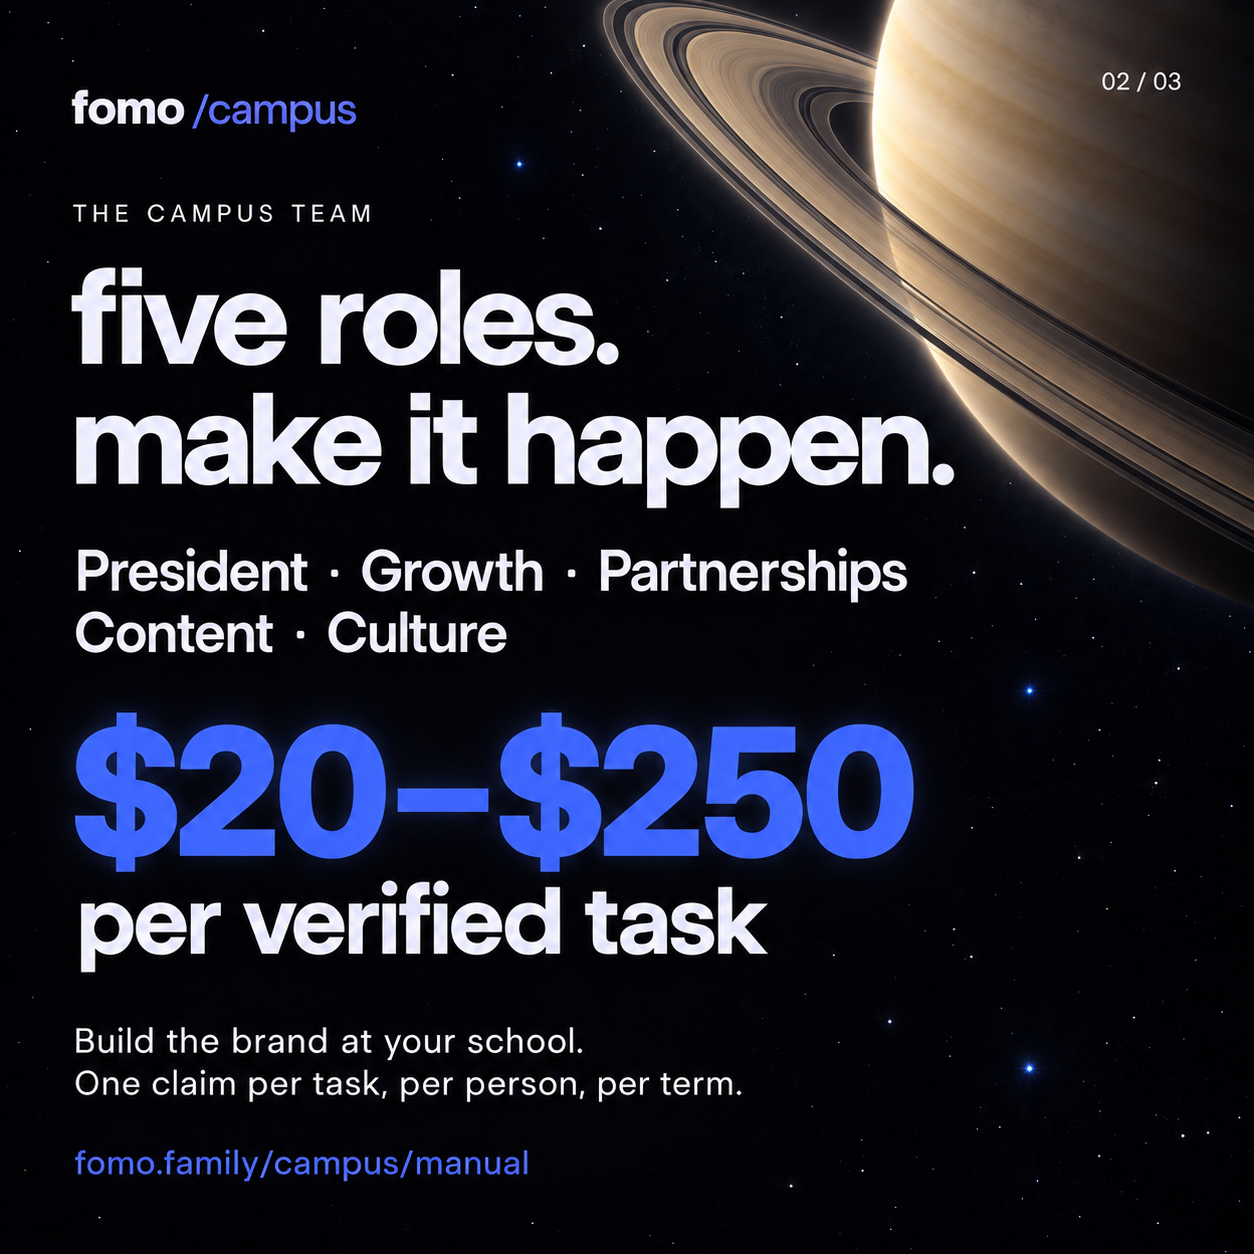
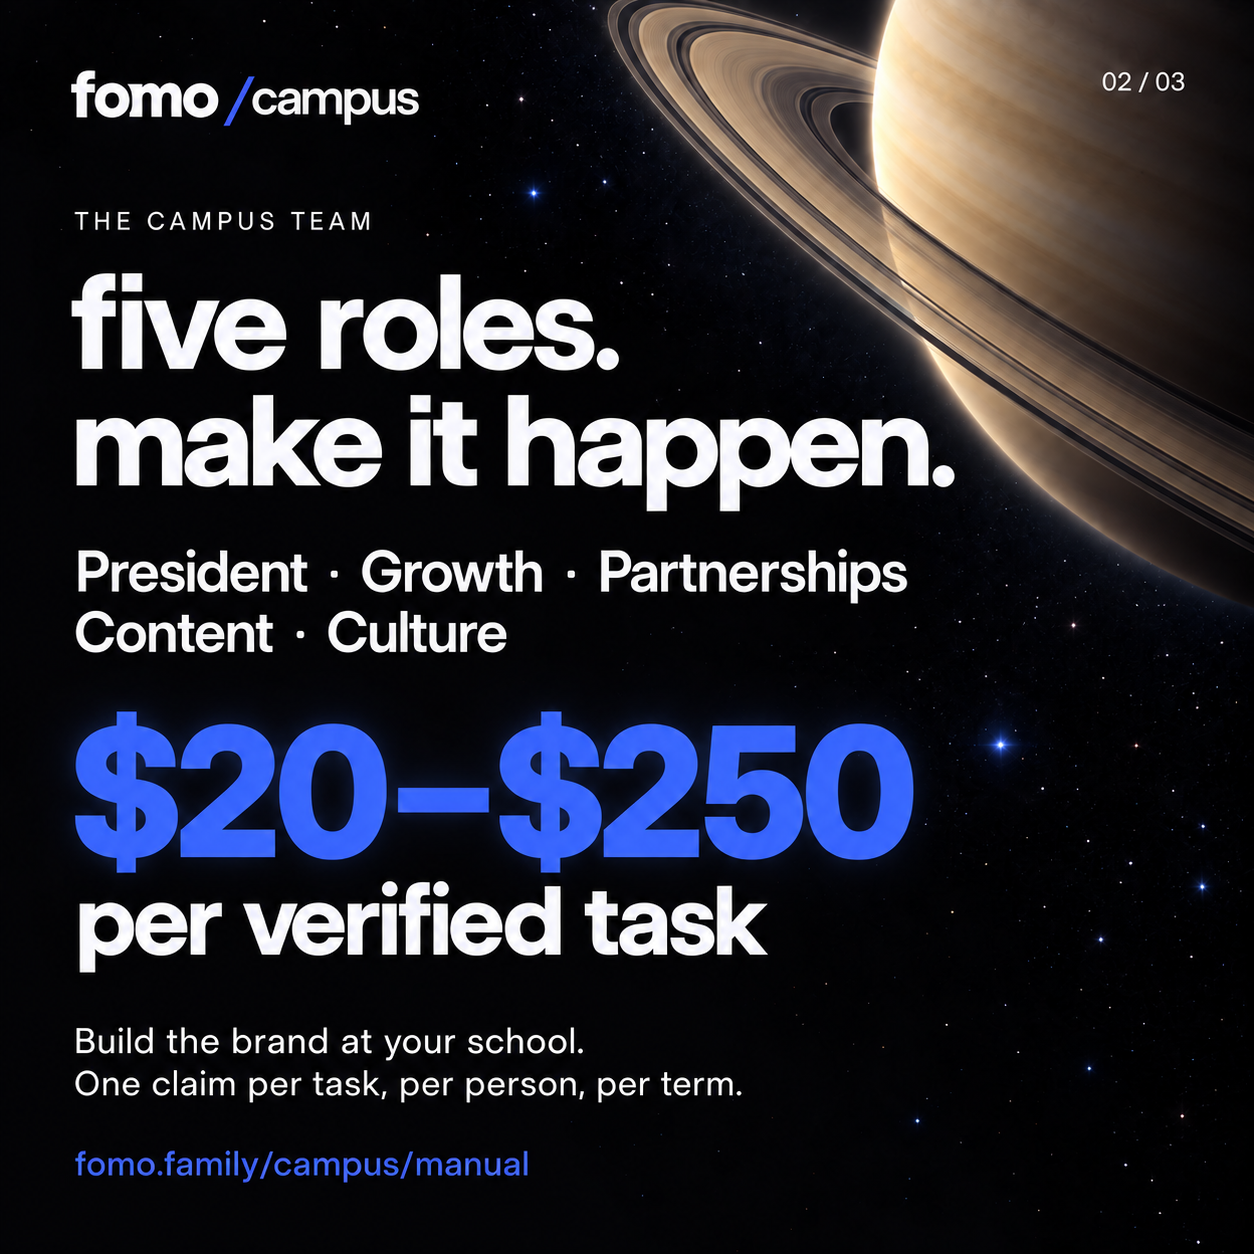
Match fomo campus lockup across social graphics

diff --git a/greekwars/invite.html b/greekwars/invite.html
@@ -11,18 +11,18 @@
   <meta property="og:title" content="Greek Wars · $500 for your chapter">
   <meta property="og:description" content="$500 for any chapter with 80% onboarded. Plus campus roles and funded dinners. Find your way in.">
   <meta property="og:url" content="https://bijanizadian.com/greekwars/invite">
-  <meta property="og:image" content="https://bijanizadian.com/assets/campus-social/01-greek-wars.png?v=bf3a9b2">
+  <meta property="og:image" content="https://bijanizadian.com/assets/campus-social/01-greek-wars.png?v=lockup-1">
   <meta property="og:image:width" content="1254">
   <meta property="og:image:height" content="1254">
   <meta property="og:image:alt" content="Greek Wars: $500 for any chapter with 80% onboarded. Jupiter above a field of stars.">
   <meta name="twitter:card" content="summary_large_image">
   <meta name="twitter:title" content="You're invited to Greek Wars · fomo">
   <meta name="twitter:description" content="$500 for any chapter with 80% onboarded. Explore Greek Wars, campus roles and funded dinners.">
-  <meta name="twitter:image" content="https://bijanizadian.com/assets/campus-social/01-greek-wars.png?v=bf3a9b2">
+  <meta name="twitter:image" content="https://bijanizadian.com/assets/campus-social/01-greek-wars.png?v=lockup-1">
   <link rel="canonical" href="https://bijanizadian.com/greekwars/invite">
   <link rel="icon" type="image/svg+xml" href="/fomo-favicon.svg">
   <link rel="preload" as="font" type="font/woff2" href="/campus/fonts/Aeonik-Bold.woff2" crossorigin>
-  <link rel="preload" as="image" href="/assets/campus-social/01-greek-wars.png?v=bf3a9b2" fetchpriority="high">
+  <link rel="preload" as="image" href="/assets/campus-social/01-greek-wars.png?v=lockup-1" fetchpriority="high">
   <link rel="stylesheet" href="/assets/manual-header.css">
   <link rel="stylesheet" href="/assets/greekwars-invite.css?v=cards-1">
   <script src="/assets/manual-header.js" defer></script>
@@ -60,7 +60,7 @@
     </nav>
 
     <section class="invite-panel" id="greekwars" data-invite-panel aria-labelledby="greekwars-title" data-share-title="Greek Wars · fomo">
-      <img class="invite-graphic" src="/assets/campus-social/01-greek-wars.png?v=bf3a9b2" width="1254" height="1254" alt="Greek Wars invitation featuring Jupiter. Your chapter. vs. everyone. $500 for any chapter with 80% onboarded." fetchpriority="high">
+      <img class="invite-graphic" src="/assets/campus-social/01-greek-wars.png?v=lockup-1" width="1254" height="1254" alt="Greek Wars invitation featuring Jupiter. Your chapter. vs. everyone. $500 for any chapter with 80% onboarded." fetchpriority="high">
       <div class="invite-info">
         <div class="invite-description">
           <p class="invite-eyebrow">01 / Compete with your chapter</p>
@@ -71,13 +71,13 @@
           <a class="manual-plan-link" href="https://fomo.family/" data-invite-action>Get fomo <span aria-hidden="true">&rarr;</span></a>
           <button class="invite-share" type="button" hidden>Share invite <span aria-hidden="true">&uarr;</span></button>
         </div>
-        <a class="invite-save" href="/assets/campus-social/01-greek-wars.png?v=bf3a9b2" download="fomo-greek-wars.png">Save graphic <span aria-hidden="true">&darr;</span></a>
+        <a class="invite-save" href="/assets/campus-social/01-greek-wars.png?v=lockup-1" download="fomo-greek-wars.png">Save graphic <span aria-hidden="true">&darr;</span></a>
         <p class="invite-terms">18+ · Eligibility &amp; final rules apply. Trading involves risk.</p>
       </div>
     </section>
 
     <section class="invite-panel" id="campus-team" data-invite-panel aria-labelledby="campus-team-title" data-share-title="Campus roles · fomo">
-      <img class="invite-graphic" src="/assets/campus-social/02-campus-team.png?v=bf3a9b2" width="1254" height="1254" alt="Campus team invitation featuring Saturn. Five roles: President, Growth, Partnerships, Content and Culture. $20–$250 per verified task." loading="lazy" decoding="async">
+      <img class="invite-graphic" src="/assets/campus-social/02-campus-team.png?v=lockup-1" width="1254" height="1254" alt="Campus team invitation featuring Saturn. Five roles: President, Growth, Partnerships, Content and Culture. $20–$250 per verified task." loading="lazy" decoding="async">
       <div class="invite-info">
         <div class="invite-description">
           <p class="invite-eyebrow">02 / Build your campus team</p>
@@ -88,13 +88,13 @@
           <a class="manual-plan-link" href="/campus/manual#seats" data-invite-action>Explore roles <span aria-hidden="true">&rarr;</span></a>
           <button class="invite-share" type="button" hidden>Share invite <span aria-hidden="true">&uarr;</span></button>
         </div>
-        <a class="invite-save" href="/assets/campus-social/02-campus-team.png?v=bf3a9b2" download="fomo-campus-roles.png">Save graphic <span aria-hidden="true">&darr;</span></a>
+        <a class="invite-save" href="/assets/campus-social/02-campus-team.png?v=lockup-1" download="fomo-campus-roles.png">Save graphic <span aria-hidden="true">&darr;</span></a>
         <p class="invite-terms">One claim per task, per person, per term. Claims are verified before payment.</p>
       </div>
     </section>
 
     <section class="invite-panel" id="dinners" data-invite-panel aria-labelledby="dinners-title" data-share-title="Dinner Series · fomo">
-      <img class="invite-graphic" src="/assets/campus-social/03-dinner-series.png?v=bf3a9b2" width="1254" height="1254" alt="Dinner Series invitation featuring Neptune. Host 12 people. Up to $1,200 covered per approved table; the restaurant is paid directly." loading="lazy" decoding="async">
+      <img class="invite-graphic" src="/assets/campus-social/03-dinner-series.png?v=lockup-1" width="1254" height="1254" alt="Dinner Series invitation featuring Neptune. Host 12 people. Up to $1,200 covered per approved table; the restaurant is paid directly." loading="lazy" decoding="async">
       <div class="invite-info">
         <div class="invite-description">
           <p class="invite-eyebrow">03 / Bring your people together</p>
@@ -105,7 +105,7 @@
           <a class="manual-plan-link" href="/dinners/apply" data-invite-action>Apply to host <span aria-hidden="true">&rarr;</span></a>
           <button class="invite-share" type="button" hidden>Share invite <span aria-hidden="true">&uarr;</span></button>
         </div>
-        <a class="invite-save" href="/assets/campus-social/03-dinner-series.png?v=bf3a9b2" download="fomo-dinner-series.png">Save graphic <span aria-hidden="true">&darr;</span></a>
+        <a class="invite-save" href="/assets/campus-social/03-dinner-series.png?v=lockup-1" download="fomo-dinner-series.png">Save graphic <span aria-hidden="true">&darr;</span></a>
         <p class="invite-terms">18+ · Hosting approval required.</p>
       </div>
     </section>

diff --git a/scripts/campus-social-prompts.md b/scripts/campus-social-prompts.md
@@ -4,9 +4,11 @@ Generated with the built-in imagegen tool. Final PNGs are in `assets/campus-soci
 
 The Greek Wars graphic uses the user-confirmed $500 chapter onboarding reward for any chapter with 80% onboarded. Campus team amounts are task payments; dinner coverage is paid directly to the restaurant.
 
+Shared lockup specification: Use the unchanged Greek Wars graphic (assets/campus-social/01-greek-wars.png) as the exact top-left fomo /campus reference for all three graphics: white "fomo", a blue slash, and white "campus". Match its letterforms, font sizes and weights, baseline, component spacing, overall dimensions and exact top-left placement. The lockup must be identical across Greek Wars, Campus Team and Dinner Series.
+
 ## 01-greek-wars
 
-Use case: ads-marketing. Generate ONE finished square 1024 x 1024 raster graphic for sharing in university group chats, not a mockup. It is one of a coherent three-image fomo campus campaign. Premium but very simple, immediately readable on a phone. Brand: fomo. Same visual language as a black space website with Jupiter: nearly black #060510 background, a sparse fine starfield, a richly textured photorealistic copper-and-cream Jupiter arc cropped in the upper-right corner, restrained electric-blue #516AF6 light, pale lavender #EAEDFF type. Large editorial lowercase geometric grotesk typography reminiscent of Aeonik, tight tracking, generous negative space. Flat poster with no border, no phone, no browser UI. Keep artwork subordinate to very crisp lettering. All text left aligned on a consistent 70px margin; small fomo /campus wordmark at top left, small section label under it, two-line headline, then a big highlighted money amount and its accurate label. Supporting text must be minimal and clearly readable, including footer at least 24px. Tiny section number in top right. Money should be the strongest emphasis alongside the headline. Make it energetic and sophisticated without confetti, cash piles, extra badges or invented claims. No watermark or additional text. Render the exact text below with perfect spelling; line breaks may be adjusted for neat fit.
+Use case: ads-marketing. Generate ONE finished square 1024 x 1024 raster graphic for sharing in university group chats, not a mockup. It is one of a coherent three-image fomo campus campaign. Premium but very simple, immediately readable on a phone. Brand: fomo. Same visual language as a black space website with Jupiter: nearly black #060510 background, a sparse fine starfield, a richly textured photorealistic copper-and-cream Jupiter arc cropped in the upper-right corner, restrained electric-blue #516AF6 light, pale lavender #EAEDFF type. Large editorial lowercase geometric grotesk typography reminiscent of Aeonik, tight tracking, generous negative space. Flat poster with no border, no phone, no browser UI. Keep artwork subordinate to very crisp lettering. All text left aligned on a consistent 70px margin; the shared fomo /campus lockup at top left, matching the Greek Wars reference exactly: white fomo, blue slash, white campus, identical sizes, position and spacing, small section label under it, two-line headline, then a big highlighted money amount and its accurate label. Supporting text must be minimal and clearly readable, including footer at least 24px. Tiny section number in top right. Money should be the strongest emphasis alongside the headline. Make it energetic and sophisticated without confetti, cash piles, extra badges or invented claims. No watermark or additional text. Render the exact text below with perfect spelling; line breaks may be adjusted for neat fit.
 Section number: "01 / 03".
 Exact text:
 "fomo /campus"
@@ -26,7 +28,7 @@ Correction edit prompt: In the existing Greek Wars graphic, replace only the two
 
 ## 02-campus-team
 
-Use case: ads-marketing. Generate ONE finished square 1024 x 1024 raster graphic for sharing in university group chats, not a mockup. It is one of a coherent three-image fomo campus campaign. Premium but very simple, immediately readable on a phone. Brand: fomo. Same visual language as the black space website: nearly black #060510 background, a sparse fine starfield, a richly textured photorealistic golden Saturn with clearly visible rings cropped in the upper-right corner, restrained electric-blue #516AF6 light, pale lavender #EAEDFF type. Large editorial lowercase geometric grotesk typography reminiscent of Aeonik, tight tracking, generous negative space. Flat poster with no border, no phone, no browser UI. Keep artwork subordinate to very crisp lettering. All text left aligned on a consistent 70px margin; small fomo /campus wordmark at top left, small section label under it, two-line headline, then a big highlighted money amount and its accurate label. Supporting text must be minimal and clearly readable, including footer at least 24px. Tiny section number in top right. Money should be the strongest emphasis alongside the headline. Make it energetic and sophisticated without confetti, cash piles, extra badges or invented claims. No watermark or additional text. Render the exact text below with perfect spelling; line breaks may be adjusted for neat fit.
+Use case: ads-marketing. Generate ONE finished square 1024 x 1024 raster graphic for sharing in university group chats, not a mockup. It is one of a coherent three-image fomo campus campaign. Premium but very simple, immediately readable on a phone. Brand: fomo. Same visual language as the black space website: nearly black #060510 background, a sparse fine starfield, a richly textured photorealistic golden Saturn with clearly visible rings cropped in the upper-right corner, restrained electric-blue #516AF6 light, pale lavender #EAEDFF type. Large editorial lowercase geometric grotesk typography reminiscent of Aeonik, tight tracking, generous negative space. Flat poster with no border, no phone, no browser UI. Keep artwork subordinate to very crisp lettering. All text left aligned on a consistent 70px margin; the shared fomo /campus lockup at top left, matching the Greek Wars reference exactly: white fomo, blue slash, white campus, identical sizes, position and spacing, small section label under it, two-line headline, then a big highlighted money amount and its accurate label. Supporting text must be minimal and clearly readable, including footer at least 24px. Tiny section number in top right. Money should be the strongest emphasis alongside the headline. Make it energetic and sophisticated without confetti, cash piles, extra badges or invented claims. No watermark or additional text. Render the exact text below with perfect spelling; line breaks may be adjusted for neat fit.
 Section number: "02 / 03".
 Exact text:
 "fomo /campus"
@@ -44,7 +46,7 @@ Composition: the five roles are clearly readable in two short rows, not a dense 
 
 ## 03-dinner-series
 
-Use case: ads-marketing. Generate ONE finished square 1024 x 1024 raster graphic for sharing in university group chats, not a mockup. It is one of a coherent three-image fomo campus campaign. Premium but very simple, immediately readable on a phone. Brand: fomo. Same visual language as the black space website: nearly black #060510 background, a sparse fine starfield, a richly textured photorealistic deep-blue Neptune arc cropped in the upper-right corner, restrained electric-blue #516AF6 light, pale lavender #EAEDFF type. Large editorial lowercase geometric grotesk typography reminiscent of Aeonik, tight tracking, generous negative space. Flat poster with no border, no phone, no browser UI. Keep artwork subordinate to very crisp lettering. All text left aligned on a consistent 70px margin; small fomo /campus wordmark at top left, small section label under it, two-line headline, then a big highlighted money amount and its accurate label. Supporting text must be minimal and clearly readable, including footer at least 24px. Tiny section number in top right. Money should be the strongest emphasis alongside the headline. Make it energetic and sophisticated without confetti, cash piles, extra badges or invented claims. No watermark or additional text. Render the exact text below with perfect spelling; line breaks may be adjusted for neat fit.
+Use case: ads-marketing. Generate ONE finished square 1024 x 1024 raster graphic for sharing in university group chats, not a mockup. It is one of a coherent three-image fomo campus campaign. Premium but very simple, immediately readable on a phone. Brand: fomo. Same visual language as the black space website: nearly black #060510 background, a sparse fine starfield, a richly textured photorealistic deep-blue Neptune arc cropped in the upper-right corner, restrained electric-blue #516AF6 light, pale lavender #EAEDFF type. Large editorial lowercase geometric grotesk typography reminiscent of Aeonik, tight tracking, generous negative space. Flat poster with no border, no phone, no browser UI. Keep artwork subordinate to very crisp lettering. All text left aligned on a consistent 70px margin; the shared fomo /campus lockup at top left, matching the Greek Wars reference exactly: white fomo, blue slash, white campus, identical sizes, position and spacing, small section label under it, two-line headline, then a big highlighted money amount and its accurate label. Supporting text must be minimal and clearly readable, including footer at least 24px. Tiny section number in top right. Money should be the strongest emphasis alongside the headline. Make it energetic and sophisticated without confetti, cash piles, extra badges or invented claims. No watermark or additional text. Render the exact text below with perfect spelling; line breaks may be adjusted for neat fit.
 Section number: "03 / 03".
 Exact text:
 "fomo /campus"
@@ -63,3 +65,7 @@ Composition: preserve the same space background, featuring deep-blue Neptune in 
 Footer-domain edit prompt: In each existing graphic, change only the printed footer domain from "bijanizadian.com" to "fomo.family", preserving its path: "/greekwars/invite", "/campus/manual" or "/dinners". Preserve all other text, artwork, typography, colors and layout, including the Greek Wars reward "$500 / for any chapter with / 80% onboarded".
 
 Planet-only edit prompt: Keep Jupiter on Greek Wars. Replace only the upper-right planet on Campus Team with golden Saturn and clearly visible rings, and on Dinner Series with deep-blue Neptune. Preserve all text, footer URLs, typography, layout and money offers, including "$500 / for any chapter with / 80% onboarded". Keep the planets clear of the lettering.
+
+Lockup-only edit prompt: Use the unchanged Greek Wars graphic as the exact logo reference. Replace only the top-left fomo /campus lockup in Campus Team and Dinner Series to match its white fomo, blue slash and white campus, including letterforms, sizes, baseline, position and spacing. Preserve every other pixel and all copy, offers, footer URLs and planets. Leave the Greek Wars graphic unchanged.
+
+Final compositing prompt: Use Greek Wars as image 1, the master template. Preserve its upper-left region x=0–500, y=0–170 with the logo at its existing size and position. Match image 2 (the target Campus Team or Dinner Series graphic) everywhere else, retaining its planet, section number, copy, money amount, footer URL and layout. Do not bring over the Greek Wars headline, planet or offer. Output one 1254×1254 graphic.
